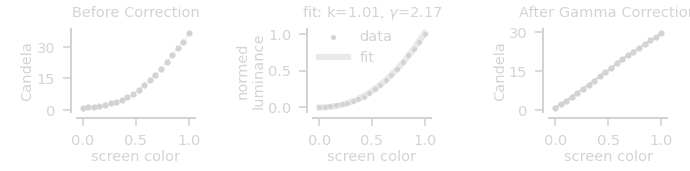
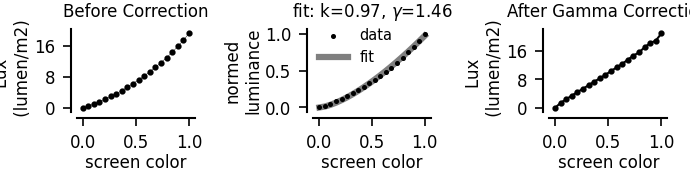
done with gamma correction on neuropix-2screens

diff --git a/notebooks/advanced/Gamma-Correction.py b/notebooks/advanced/Gamma-Correction.py
@@ -19,7 +19,7 @@ x = np.linspace(0, 1, len(data['Value']))
 fig, ax = pt.figure()
 ax.plot(x, data['Value'], 'o-', ms=2, lw=0.2)
 pt.set_plot(ax, xticks=[0., 0.5, 1.],
-            xlabel='screen color', ylabel='Candela')
+            xlabel='screen color', ylabel='Lux \n (lumen/m2)')
 
 # %%
 
@@ -51,14 +51,14 @@ pt.set_plot(ax,
 fig, ax = pt.figure()
 ax.plot(x, data['After'], 'o-', ms=2)
 pt.set_plot(ax, xticks=[0., 0.5, 1.],
-            xlabel='screen color', ylabel='Candela',
+            xlabel='screen color', ylabel='Lux \n (lumen/m2)',
             title='After Gamma Correction')
 
 # %%
 fig, AX = pt.figure(axes=(3,1), wspace=2)
 AX[0].plot(x, data['Value'], 'o-', ms=2, lw=0.2)
 pt.set_plot(AX[0], xticks=[0., 0.5, 1.],
-            xlabel='screen color', ylabel='Candela',
+            xlabel='screen color', ylabel='Lux \n (lumen/m2)',
             title='Before Correction')
 AX[1].scatter(x, normed_data, label='data', s=2)
 pt.set_plot(AX[1],
@@ -73,7 +73,7 @@ pt.set_plot(AX[1],
 
 AX[2].plot(x, data['After'], 'o-', ms=2)
 pt.set_plot(AX[2], xticks=[0., 0.5, 1.],
-            xlabel='screen color', ylabel='Candela',
+            xlabel='screen color', ylabel='Lux \n (lumen/m2)',
             title='After Gamma Correction')
 fig.savefig('../../docs/visual_stim/gamma-correction.png')
 # %%
